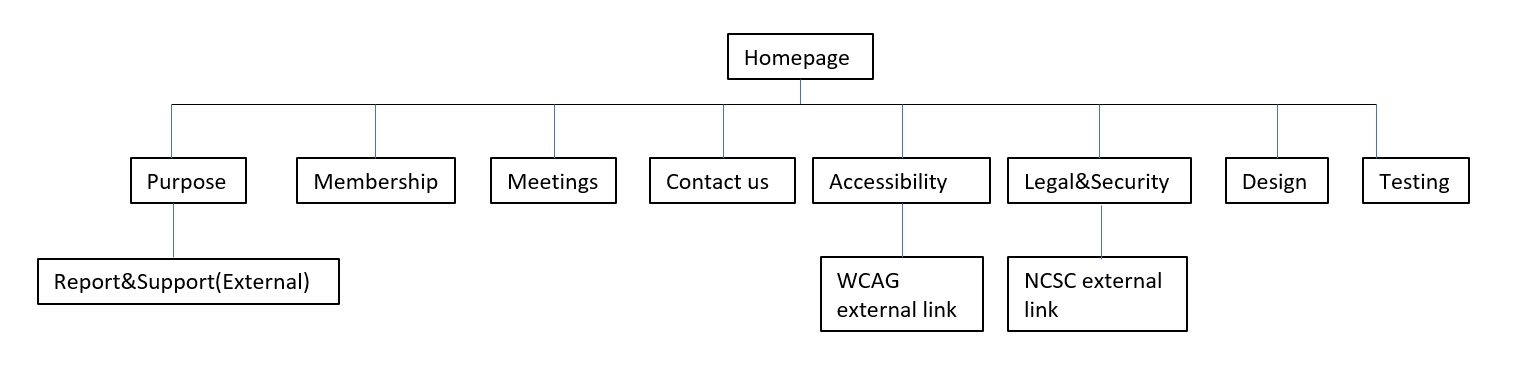
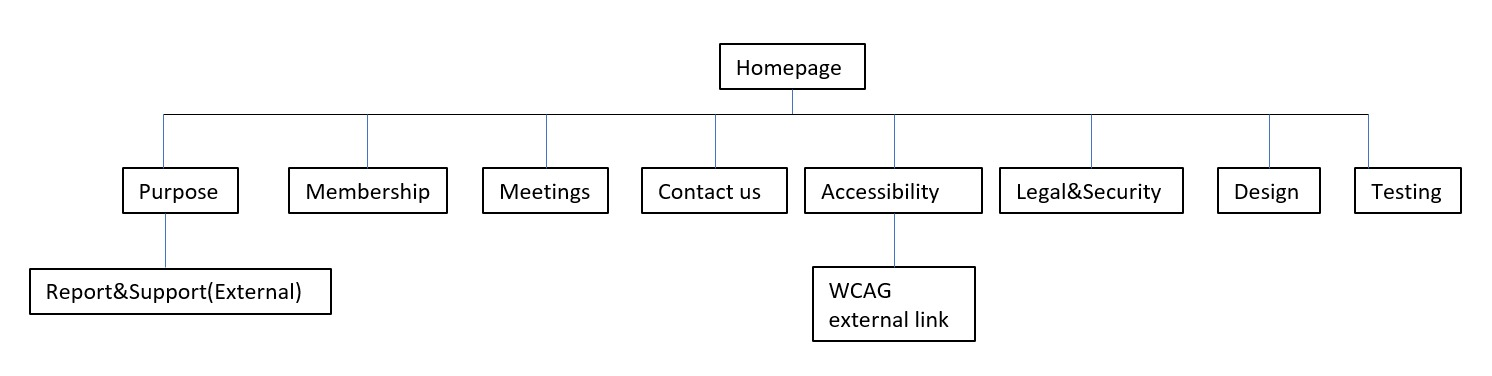
final changes maybe

diff --git a/design.html b/design.html
@@ -74,34 +74,37 @@
 		<section>
 			<h2>Design reasoning</h2>
 			<p>
-				We defined medial rule based styles. The default css style is for
-				small/mobile device. If the screen size is over 768px, then narrow/medium screen css will be applied, if
-				the screen size is over
-				992px, then the normal/large screen style sheet will be applied.
-				The breakpoints are choosen based on the mostly popular device sizes on the market also based on the
-				page content(pictures are 300px wide).
+				I chose three breakpoints: normal, narrow, and mobile. The default style is for the mobile breakpoint. 
+				If the screen width is over 768px, then the narrow style will be applied, and if the screen width is over
+				992px, then the normal style will be applied. The breakpoints were choosen based on popular device 
+				sizes on the market, and were also based on the pages' content (the pictures are 300px wide).
 
 			</p>
 			<p>
-				For pages with pictures, grid layouts is being used to set number of columns per row. On mobile device,
-				only one picture each row, on narrow device, we show 2 pictures per row, on normal device, we show 4
-				pictures per row.
+				For pages with pictures, grid layouts were used to set the number of columns per row. On mobile devices,
+				there is only one picture per row, for the narrow style, there are two pictures per row, and for the normal 
+				style, there are four pictures per row.
 
 			</p>
 
 			<p>
-				On the contact us page, we use grid layout to make field label and input field side by side on normal
-				and narrow screen.
-				For mobile device, we defines different grid layout so label and field are vertically arranged.
+				On the contact page, I used a grid layout to make the field label and the text box side by side on normal
+				and narrow screens.
+				For mobile devices, I defined a different grid layout so the label and text box are vertically arranged.
 			</p>
 			<p>
-				On purpose page, the pictures and questions are displayed horizontally for narrow and normal screen.
-				For mobile device, the picture will be displayed on top of question.
+				On the purpose page, the pictures and questions are displayed horizontally for the narrow and normal widths.
+				For mobile devices, the pictures are displayed on top of the questions.
 			</p>
 
 			<p>
-				On design page, the sitemap picture width is set to 600px on narrow and normal screen and 300px on
-				mobile device.
+				On the design page, the sitemap picture's width is set to 600px for narrow and normal widths and 300px on
+				mobile devices.
+			</p>
+
+			<p>
+				All of these changes were to ensure all the non-text elements could fit on the screen without the need for
+				 a scrollbar, for convenience.
 			</p>
 		</section>
 
@@ -109,16 +112,20 @@
 		<section>
 			<h2>Menu System</h2>
 			<p>
-				To produce a responsive menu for different size of devices, we use inline-block to display them
-				horizontally on screen when the size of the screen is big enough.
-				Inline-block also automatically apply breakpoints as to the screen size, when the browser window
-				resizes, the links will automatically break into multiple rows to fit the screen.
+				To produce a responsive menu for different size of devices, I used inline-block to display them
+				horizontally on screen when the screen is wide enough. Inline-block also automatically applies 
+				breakpoints based on screen size -- when the window resizes, the links automatically break into 
+				multiple rows to fit the screen.
 			</p>
 		</section>
 
 		<section>
 			<h2>Design mock-ups</h2>
-			<p>For each page, we have design mock-up for normal screen, narrow screen and mobile device. For pages with pictures, the number of pictures on each row is based on the picture size as well breakpoint width.</p>
+			<p>I created design mock-ups for normal, narrow and mobile breakpoints. For pages with pictures, the number of 
+				pictures on each row was based on the pictures' sizes as well the breakpoint widths. I created unique designs for all 
+				the pages to be linked on the headers, and intended for the layouts of the footer pages to be the same. Some choices,
+				such as the white text for page links, were scrapped for accessibility. 
+			</p>
 			<div class="pagepictures">
 				
 				<h3>Home page design</h3>
@@ -143,7 +150,7 @@
 				<div><img src="images/design/MeetingBreakpoint.JPG" alt="meeting page narrow screen design"></div>
 				<div><img src="images/design/MeetingMobile.JPG" alt="meeting page mobile screen design"></div>
 
-				<h3>Contact us page design</h3>
+				<h3>Contact page design</h3>
 				<div><img src="images/design/ContactFull.JPG" alt="membership page normal screen design"></div>
 				<div><img src="images/design/ContactMedium.JPG" alt="membership page narrow screen design"></div>
 				<div><img src="images/design/ContactMobile.JPG" alt="membership page mobile screen design"></div>

diff --git a/membership.html b/membership.html
@@ -118,10 +118,126 @@
 					</li>
 				</ul>
 
-				<h4>Year 5 (Placement Year): </h4>
+				<h4>Placement Year: </h4>
 				<ul>
 					<li>
 						TBC
+					</li>
+				</ul>
+
+				<h3>Postgraduates: </h3>
+				<h4>Data Analytics: </h4>
+				<ul>
+					<li>
+						Grace Alexander
+					</li>
+					<li>
+						Andy Sanchez
+					</li>
+					<li>
+						Tim Davidson
+					</li>
+				</ul>
+
+				<h4>Cybersecurity & AI: </h4>
+				<ul>
+					<li>
+						Harmony Parsons
+					</li>
+				</ul>
+
+				<h4>Advanced Computer Science: </h4>
+				<ul>
+					<li>
+						TBC
+					</li>
+				</ul>
+
+				<h4>Computer Science with Speech and Language Processing: </h4>
+				<ul>
+					<li>
+						TBC
+					</li>
+				</ul>
+
+				<h3>Other Rep Positions: </h3>
+				<ul>
+					<li>
+						Student Co-Chair: Lily-Rose Ferrell
+					</li>
+					<li>
+						Faculty Representatives: Harriet Roth
+					</li>
+					<li>
+						Industrial Advisory Board Representatives: Cleo Mendez
+					</li>
+					<li>
+						Equality, Diversity & Inclusion Committee (ED&I) Representatives: TBC
+					</li>
+					<li>
+						Department Meeting Representative: Jem Young
+					</li>
+					<li>
+						Societies Representative: TBC
+					</li>
+					<li>
+						CompSoc President: Malik Randolph
+					</li>
+				</ul>
+
+				<h3>Staff Membership: </h3>
+				<ul>
+					<li>
+						Staff Chair & Director of Student Experience: Elizabeth Reed
+					</li>
+					<li>
+						Secretary: Ollie Ho
+					</li>
+					<li>
+						Departmental Admin Manager: Zachary Arroyo
+					</li>
+					<li>
+						Learning & Teaching Manager: Dr Isobella Carlson
+					</li>
+					<li>
+						Senior Student Experience Officer: TBC
+					</li>
+					<li>
+						UG Progression Tutor (L1 & L3): Bridie Hurst
+					</li>
+					<li>
+						UG Progression Tutor (L2 & L4): Dr Lester Kaufman
+					</li>
+					<li>
+						Course Director for MSc Advanced Computer Science: Dr Samson Bush
+					</li>
+					<li>
+						Course Director for MSc Cybersecurity & AI: Georgie Cain
+					</li>
+					<li>
+						Course Director for MSc Data Analytics/MSc Computer Science with 
+						Speech & Language Processing: Dr Lorna Bauer
+					</li>
+					<li>
+						Director of Education: Dr Lukas Matthams
+					</li>
+					<li>
+						MSc Director: Dr Ishaq Jordan
+					</li>
+					<li>
+						Head of Department: Professor Haaris Wood
+					</li>
+					<li>
+						Wellbeing Adviser: Dr Dawud Myers
+					</li>
+					<li>
+						Learning Technologist & Software Engineer: Professor Joan Ramos
+					</li>
+					<li>
+						Faculty Librarian: Chris Lozano
+					</li>
+					<li>
+						Diamond SLA & Exams Officer: Professor Siena Bonilla
 					</li>
 				</ul>
 			</div>

diff --git a/legal.html b/legal.html
@@ -55,38 +55,23 @@
 	<main>
 		<h1>Legal and security</h1>
 		<section>
-			<h2>Copyright</h2>
-
-			<p>Images on this website are created by freelance creator so we do not have copyright issues</p>
+			<h2>
+				Copyright
+			</h2>
+			<p>All the images used are stock images to avoid copyright issues</p>
 			<h2>
 				GDPR Statement
 			</h2>
 			<p>
-				University staff-student liaison committee is committed to ensuring the security and protection of the
+				The University staff-student liaison committee is committed to ensuring the security and protection of the
 				personal information that we process, and to provide a compliant and consistent approach to data
-				protection. If you have any questions related to our GDPR compliance, please <a
-					href="contact.html">contact us</a>.
+				protection. The only personal information we store is your email, if you choose to contact us.
 			</p>
-
-
-			<p>We process your information to provide and improve our services, and to comply with law. </p>
-
-			<p>We are not using cookies on this website. Any of your information provided will be sent to us via secure
-				protocal.
+			<p>We process your information to provide and improve our services.</p>
+			<p>We do not use cookies on this website. Any of your information provided will be sent to us via a secure
+				protocol.
 				We will take all reasonable steps to ensure that your information is kept secure. However, messages sent
-				by email cannot be guaranteed to be completely secure as they may be intercepted, lost or corrupted
-			</p>
-
-
-
-			<h2>Phishing</h2>
-
-			<p>
-				Phishing is a form of social engineering and scam where attackers deceive people into revealing
-				sensitive information or installing malware such as ransomware.
-				For more information, please refer to <a
-					href="https://www.ncsc.gov.uk/guidance/phishing#:~:text=Phishing%20is%20when%20attackers%20attempt,them%20to%20a%20dodgy%20website.">National
-					Cyber Security Centre</a>
+				by email cannot be guaranteed to be completely secure as they may be intercepted, lost or corrupted.
 			</p>
 		</section>
 

diff --git a/purpose.html b/purpose.html
@@ -93,7 +93,7 @@
 					<p class="tooltiptext">Academic issues</p>
 				</div>
 				<div>
-					<img class="questionimg" src="images/purposeStudent.jpg" alt="a student smiling off to the side">
+					<img class="questionimg" src="images/purposeStudent.jpg" alt="a distressed-looking student">
 				</div>
 				<div class="questiontextpadding">
 					<p>What should you do if you have any concerns about a classmate?</p>

diff --git a/accessibility.html b/accessibility.html
@@ -108,8 +108,7 @@
 			<div>
 
 				We welcome your feedback on the accessibility of the Staff-Student Liaison website. Please let us
-				know
-				if you encounter any accessibility barriers.
+				know if you encounter any accessibility barriers.
 
 			</div>
 
